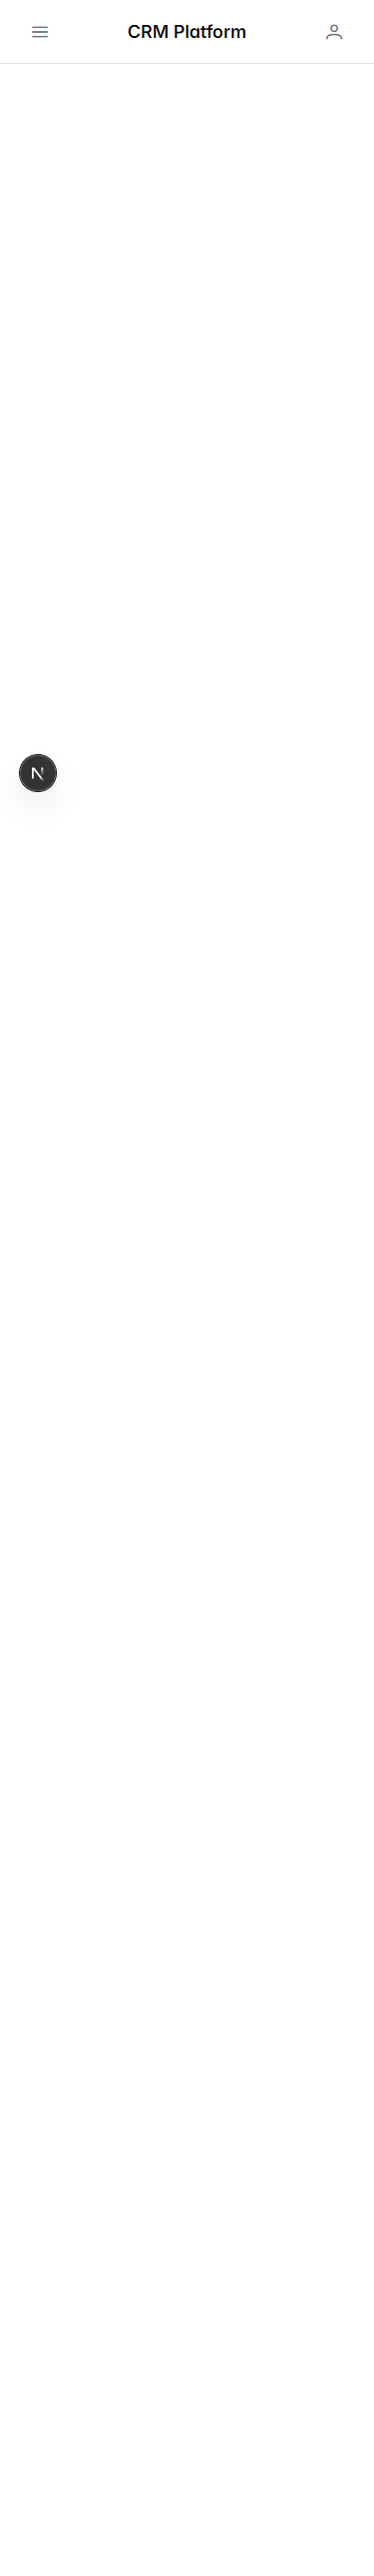
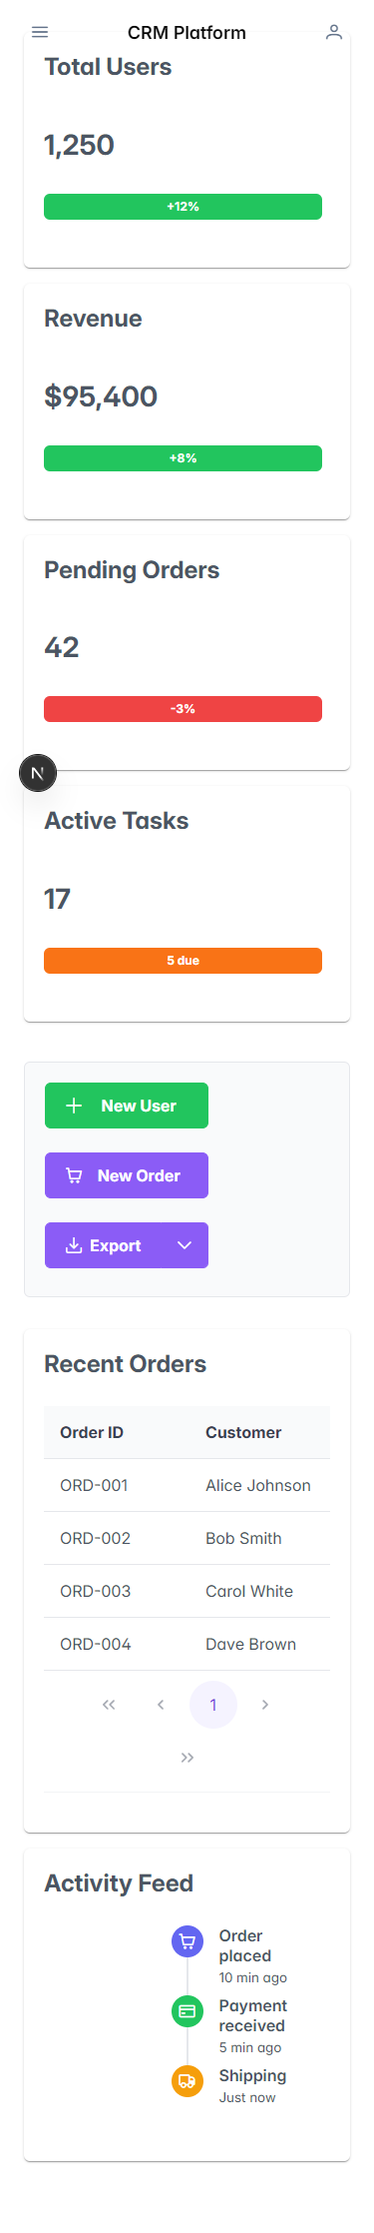
refactor: extract DashboardHeader as separate component

diff --git a/src/engine/DashboardSidebar.tsx b/src/engine/DashboardSidebar.tsx
@@ -35,6 +35,8 @@ interface DashboardSidebarProps {
   title: string;
   userMenu?: UserMenuConfig;
   isAuthenticated: boolean;
+  mobileOpen: boolean;
+  onMobileOpenChange: (open: boolean) => void;
 }
 
 export function DashboardSidebar({
@@ -42,19 +44,20 @@ export function DashboardSidebar({
   title,
   userMenu,
   isAuthenticated,
+  mobileOpen,
+  onMobileOpenChange,
 }: DashboardSidebarProps) {
   const router = useRouter();
   const pathname = usePathname() || "/";
   const [collapsed, setCollapsed] = useState(false);
-  const [mobileOpen, setMobileOpen] = useState(false);
   const userMenuRef = useRef<MenuType>(null);
 
   const handleNav = useCallback(
     (route: string) => {
-      setMobileOpen(false);
+      onMobileOpenChange(false);
       router.push(route);
     },
-    [router],
+    [router, onMobileOpenChange],
   );
 
   const handleAuthClick = useCallback(() => {
@@ -88,34 +91,10 @@ export function DashboardSidebar({
 
   return (
     <>
-      {/* Mobile Header */}
-      <header
-        className="md:hidden fixed top-0 left-0 right-0 h-4rem flex align-items-center justify-content-between px-3"
-        style={{
-          background: "var(--surface-overlay)",
-          borderBottom: "1px solid var(--surface-border)",
-          zIndex: 1000,
-        }}
-      >
-        <Button
-          icon="pi pi-bars"
-          className="p-button-rounded p-button-text p-button-secondary"
-          onClick={() => setMobileOpen(true)}
-          aria-label="Menu"
-        />
-        <span className="font-semibold text-lg">{title}</span>
-        <Button
-          icon={isAuthenticated ? "pi pi-user" : "pi pi-sign-in"}
-          className="p-button-rounded p-button-text p-button-secondary"
-          onClick={handleAuthClick}
-          aria-label={isAuthenticated ? "Profile" : "Login"}
-        />
-      </header>
-
       {/* Mobile Sidebar */}
       <Sidebar
         visible={mobileOpen}
-        onHide={() => setMobileOpen(false)}
+        onHide={() => onMobileOpenChange(false)}
         position="left"
         className="w-16rem"
         blockScroll
@@ -221,9 +200,6 @@ export function DashboardSidebar({
           />
         </div>
       </aside>
-
-      {/* Mobile header spacer */}
-      <div className="md:hidden h-4rem w-full flex-shrink-0" />
     </>
   );
 }

diff --git a/src/engine/AppEngine.tsx b/src/engine/AppEngine.tsx
@@ -4,6 +4,7 @@ import React, { useEffect, useState, useRef, useCallback } from "react";
 import { App, Page, NavItem } from "@/types";
 import { PageRenderer } from "./PageRenderer";
 import { DashboardSidebar } from "./DashboardSidebar";
+import { DashboardHeader } from "./DashboardHeader";
 import { StateManager } from "@/core";
 import { usePathname } from "next/navigation";
 
@@ -46,6 +47,8 @@ export function AppEngine({ config }: { config: App }) {
     return unsubscribe;
   }, [stateManager]);
 
+  const [mobileMenuOpen, setMobileMenuOpen] = useState(false);
+
   if (!currentPage) {
     return (
       <div className="flex align-items-center justify-content-center min-h-screen">
@@ -56,18 +59,27 @@ export function AppEngine({ config }: { config: App }) {
 
   const navItems: NavItem[] = config.navbar?.items || [];
   const isAuthenticated = config.globalState?.auth?.isAuthenticated || false;
+  const title = config.title || "CRM Platform";
 
   return (
     <div className="flex min-h-screen surface-900">
+      <DashboardHeader
+        title={title}
+        userMenu={config.userMenu}
+        isAuthenticated={isAuthenticated}
+        onMenuClick={() => setMobileMenuOpen(true)}
+      />
       {navItems.length > 0 && (
         <DashboardSidebar
           items={navItems}
-          title={config.title || "CRM Platform"}
+          title={title}
           userMenu={config.userMenu}
           isAuthenticated={isAuthenticated}
+          mobileOpen={mobileMenuOpen}
+          onMobileOpenChange={setMobileMenuOpen}
         />
       )}
-      <main className="flex-1 overflow-auto">
+      <main className="flex-1 overflow-auto pt-4rem md:pt-0">
         <div className="px-4 py-5 md:px-6 lg:px-8 max-w-screen-xl mx-auto">
           <PageRenderer key={currentPage.id} page={currentPage} />
         </div>

diff --git a/src/engine/DashboardHeader.tsx b/src/engine/DashboardHeader.tsx
@@ -1,0 +1,44 @@
+"use client";
+
+import React, { useCallback } from "react";
+import { useRouter } from "next/navigation";
+import { UserMenuConfig } from "@/types";
+import { Button } from "primereact/button";
+
+interface DashboardHeaderProps {
+  title: string;
+  userMenu?: UserMenuConfig;
+  isAuthenticated: boolean;
+  onMenuClick: () => void;
+}
+
+export function DashboardHeader({
+  title,
+  userMenu,
+  isAuthenticated,
+  onMenuClick,
+}: DashboardHeaderProps) {
+  const router = useRouter();
+
+  const handleAuthClick = useCallback(() => {
+    router.push(isAuthenticated ? "/profile" : "/login");
+  }, [isAuthenticated, router]);
+
+  return (
+    <header className="md:hidden fixed top-0 left-0 right-0 h-4rem flex align-items-center justify-content-between px-3 surface-ground z-5">
+      <Button
+        icon="pi pi-bars"
+        className="p-button-rounded p-button-text p-button-secondary"
+        onClick={onMenuClick}
+        aria-label="Menu"
+      />
+      <span className="font-semibold text-lg">{title}</span>
+      <Button
+        icon={isAuthenticated ? "pi pi-user" : "pi pi-sign-in"}
+        className="p-button-rounded p-button-text p-button-secondary"
+        onClick={handleAuthClick}
+        aria-label={isAuthenticated ? "Profile" : "Login"}
+      />
+    </header>
+  );
+}

diff --git a/src/engine/index.ts b/src/engine/index.ts
@@ -4,3 +4,4 @@ export { SectionRenderer } from "./SectionRenderer";
 export { BlockRenderer } from "./BlockRenderer";
 export { ComponentRenderer } from "./ComponentRenderer";
 export { DashboardSidebar } from "./DashboardSidebar";
+export { DashboardHeader } from "./DashboardHeader";
